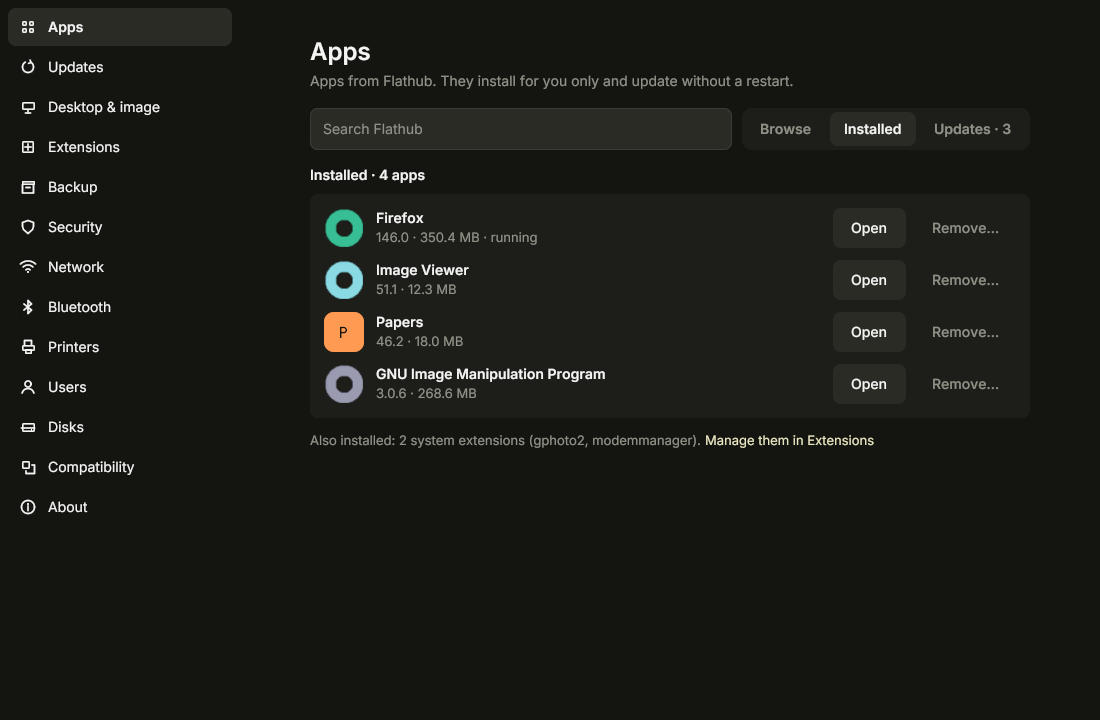
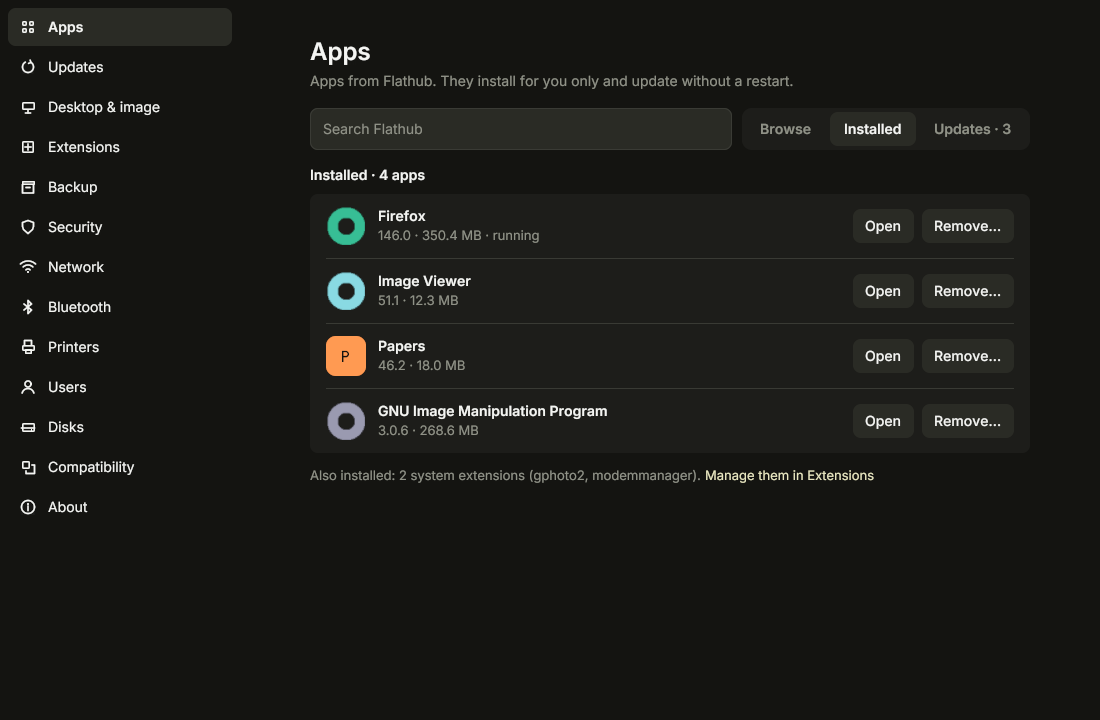
feat(system): settings rows on the Apps page
The picks, the search results, the installed apps, the updates and the
job in progress are grouped rows with row-sized buttons; "Update all"
moves beside its heading.

diff --git a/cmd/isotope-system/page_apps.go b/cmd/isotope-system/page_apps.go
@@ -869,26 +869,21 @@ func (p *appsPage) browseBody(sn appsSnap) layout.Widget {
 		c.add(u.caps(i18n.T("Isotope picks")))
 		c.gap(10)
 		lines := pickLines(sn.cat, sn.picks, sn.installedIDs)
-		c.add(u.panel(func(gtx layout.Context) layout.Dimensions {
-			var rows col
-			for i := 0; i < len(lines); i += 2 {
-				i := i
-				if i > 0 {
-					rows.gap(14)
+		var picks []layout.Widget
+		for i := 0; i < len(lines); i += 2 {
+			i := i
+			picks = append(picks, func(gtx layout.Context) layout.Dimensions {
+				right := func(gtx layout.Context) layout.Dimensions { return layout.Dimensions{} }
+				if i+1 < len(lines) {
+					right = p.appRow(lines[i+1], sn.job != nil, sn.flathub, true)
 				}
-				rows.add(func(gtx layout.Context) layout.Dimensions {
-					right := func(gtx layout.Context) layout.Dimensions { return layout.Dimensions{} }
-					if i+1 < len(lines) {
-						right = p.appRow(lines[i+1], sn.job != nil, sn.flathub, true)
-					}
-					return guikit.TwoCols(gtx, p.appRow(lines[i], sn.job != nil, sn.flathub, true), right)
-				})
-			}
-			if len(lines) == 0 {
-				rows.add(u.dim(i18n.T("None of Isotope's picks is in the catalog.")))
-			}
-			return rows.layout(gtx)
-		}))
+				return guikit.TwoCols(gtx, p.appRow(lines[i], sn.job != nil, sn.flathub, true), right)
+			})
+		}
+		if len(lines) == 0 {
+			picks = append(picks, u.note(i18n.T("None of Isotope's picks is in the catalog.")))
+		}
+		c.add(u.group(picks...))
 		c.gap(10)
 		c.add(u.dim(i18n.T("The picks are Isotope Welcome's list. Search reaches all of Flathub.")))
 		if sn.refreshing {
@@ -943,16 +938,11 @@ func (p *appsPage) appList(sn appsSnap, apps []flatpak.App, busy bool) layout.Wi
 	if len(apps) > appsMaxRows {
 		apps = apps[:appsMaxRows]
 	}
-	return u.panel(func(gtx layout.Context) layout.Dimensions {
-		var rows col
-		for i, a := range apps {
-			if i > 0 {
-				rows.gap(12)
-			}
-			rows.add(p.appRow(lineOf(a, sn.installedIDs), busy, sn.flathub, false))
-		}
-		return rows.layout(gtx)
-	})
+	var rows []layout.Widget
+	for _, a := range apps {
+		rows = append(rows, p.appRow(lineOf(a, sn.installedIDs), busy, sn.flathub, false))
+	}
+	return u.group(rows...)
 }
 
 // appRow is an app: its icon, name (and Verified), line, and Install or
@@ -991,7 +981,7 @@ func (p *appsPage) appRow(l appLine, busy, flathub, compact bool) layout.Widget 
 				})
 			}),
 			layout.Rigid(layout.Spacer{Width: 12}.Layout),
-			layout.Rigid(u.buttons(btn)),
+			layout.Rigid(u.rowButtons(btn)),
 		)
 	}
 }
@@ -1098,7 +1088,7 @@ func (p *appsPage) searchBody(sn appsSnap, q string) layout.Widget {
 			c.add(u.caps(title))
 			c.gap(10)
 			if len(res) == 0 {
-				c.add(u.panel(u.dim(i18n.Tf("No app on Flathub matches “%s”.", q))))
+				c.add(u.group(u.note(i18n.Tf("No app on Flathub matches “%s”.", q))))
 			} else {
 				c.add(p.appList(sn, res, sn.job != nil))
 				if len(res) > appsMaxRows {
@@ -1111,23 +1101,18 @@ func (p *appsPage) searchBody(sn appsSnap, q string) layout.Widget {
 			c.gap(22)
 			c.add(u.caps(i18n.T("System extensions")))
 			c.gap(10)
-			c.add(u.panel(func(gtx layout.Context) layout.Dimensions {
-				var rows col
-				for i, e := range exts {
-					if i > 0 {
-						rows.gap(12)
-					}
-					e := e
-					rows.add(func(gtx layout.Context) layout.Dimensions {
-						return layout.Flex{Alignment: layout.Middle}.Layout(gtx,
-							layout.Rigid(func(gtx layout.Context) layout.Dimensions { return p.extTile(gtx) }),
-							layout.Rigid(layout.Spacer{Width: 12}.Layout),
-							layout.Flexed(1, u.row(e.Title, e.Sub, u.buttons(guikit.Action{Click: p.extClick(e.Name), Kind: guikit.ButtonSecondary, Label: i18n.T("Open in Extensions")}))),
-						)
-					})
-				}
-				return rows.layout(gtx)
-			}))
+			var rows []layout.Widget
+			for _, e := range exts {
+				e := e
+				rows = append(rows, func(gtx layout.Context) layout.Dimensions {
+					return layout.Flex{Alignment: layout.Middle}.Layout(gtx,
+						layout.Rigid(func(gtx layout.Context) layout.Dimensions { return p.extTile(gtx) }),
+						layout.Rigid(layout.Spacer{Width: 12}.Layout),
+						layout.Flexed(1, u.row(e.Title, e.Sub, u.rowButtons(guikit.Action{Click: p.extClick(e.Name), Kind: guikit.ButtonSecondary, Label: i18n.T("Open in Extensions")}))),
+					)
+				})
+			}
+			c.add(u.group(rows...))
 		}
 		return c.layout(gtx)
 	}
@@ -1167,7 +1152,8 @@ func (p *appsPage) jobPanel(j *appsJob) layout.Widget {
 		var c col
 		c.add(u.caps(i18n.T("In progress")))
 		c.gap(10)
-		c.add(u.panel(func(gtx layout.Context) layout.Dimensions {
+		c.add(u.group(func(gtx layout.Context) layout.Dimensions {
+			gtx.Constraints.Min.X = gtx.Constraints.Max.X
 			return layout.Flex{Alignment: layout.Middle}.Layout(gtx,
 				layout.Rigid(func(gtx layout.Context) layout.Dimensions { return p.icon(gtx, j.ID, j.Name, j.Icon, 40) }),
 				layout.Rigid(layout.Spacer{Width: 12}.Layout),
@@ -1185,7 +1171,7 @@ func (p *appsPage) jobPanel(j *appsJob) layout.Widget {
 					return rows.layout(gtx)
 				}),
 				layout.Rigid(layout.Spacer{Width: 16}.Layout),
-				layout.Rigid(u.buttons(guikit.Action{Click: &p.cancel, Kind: guikit.ButtonSecondary, Label: i18n.T("Cancel")})),
+				layout.Rigid(u.rowButtons(guikit.Action{Click: &p.cancel, Kind: guikit.ButtonSecondary, Label: i18n.T("Cancel")})),
 			)
 		}))
 		return c.layout(gtx)
@@ -1211,18 +1197,13 @@ func (p *appsPage) installedBody(sn appsSnap) layout.Widget {
 			c.add(u.caps(i18n.Tf("Installed · %s", countApps(len(rows)))))
 			c.gap(10)
 			if len(rows) == 0 {
-				c.add(u.panel(u.dim(i18n.T("No app yet. Browse or search Flathub to install one."))))
+				c.add(u.group(u.note(i18n.T("No app yet. Browse or search Flathub to install one."))))
 			} else {
-				c.add(u.panel(func(gtx layout.Context) layout.Dimensions {
-					var list col
-					for i, r := range rows {
-						if i > 0 {
-							list.gap(12)
-						}
-						list.add(p.installedRow(r, sn.job != nil))
-					}
-					return list.layout(gtx)
-				}))
+				var list []layout.Widget
+				for _, r := range rows {
+					list = append(list, p.installedRow(r, sn.job != nil))
+				}
+				c.add(u.group(list...))
 			}
 		}
 		if l := installedExtsLine(sn.exts); l != "" {
@@ -1268,9 +1249,9 @@ func (p *appsPage) installedRow(r installedRow, busy bool) layout.Widget {
 				})
 			}),
 			layout.Rigid(layout.Spacer{Width: 12}.Layout),
-			layout.Rigid(u.buttons(
+			layout.Rigid(u.rowButtons(
 				guikit.Action{Click: &k.open, Kind: guikit.ButtonSecondary, Label: i18n.T("Open")},
-				guikit.Action{Click: &k.remove, Kind: guikit.ButtonGhost, Label: i18n.T("Remove…"), Disabled: busy},
+				guikit.Action{Click: &k.remove, Kind: guikit.ButtonSecondary, Label: i18n.T("Remove…"), Disabled: busy},
 			)),
 		)
 	}
@@ -1285,8 +1266,8 @@ func (p *appsPage) updatesBody(sn appsSnap) layout.Widget {
 	busy := sn.job != nil
 	return func(gtx layout.Context) layout.Dimensions {
 		var c col
-		c.add(u.panel(u.row(i18n.T("Update apps automatically"), av.Sub,
-			u.buttons(guikit.Action{Click: &p.autoToggle, Kind: guikit.ButtonSecondary, Label: av.Toggle}))))
+		c.add(u.group(u.actionRow("apps:auto", i18n.T("Update apps automatically"), av.Sub, nil,
+			guikit.Action{Click: &p.autoToggle, Kind: guikit.ButtonSecondary, Label: av.Toggle})))
 		c.gap(18)
 		if sn.job != nil {
 			c.add(p.jobPanel(sn.job))
@@ -1301,15 +1282,10 @@ func (p *appsPage) updatesBody(sn appsSnap) layout.Widget {
 			return c.layout(gtx)
 		}
 		if len(uv.Ready) == 0 && len(uv.Held) == 0 {
-			c.add(u.panel(u.dim(i18n.T("Your apps are up to date."))))
+			c.add(u.group(u.note(i18n.T("Your apps are up to date."))))
 		}
 		if len(uv.Ready) > 0 {
-			c.add(func(gtx layout.Context) layout.Dimensions {
-				return layout.Flex{Alignment: layout.Middle}.Layout(gtx,
-					layout.Flexed(1, u.caps(uv.ReadyTitle)),
-					layout.Rigid(u.buttons(guikit.Action{Click: &p.updateAll, Kind: guikit.ButtonPrimary, Label: i18n.T("Update all"), Disabled: busy})),
-				)
-			})
+			c.add(u.section(uv.ReadyTitle, guikit.Action{Click: &p.updateAll, Kind: guikit.ButtonPrimary, Label: i18n.T("Update all"), Disabled: busy}))
 			c.gap(10)
 			c.add(p.updateList(uv.Ready, busy))
 		}
@@ -1332,46 +1308,41 @@ func (p *appsPage) updatesBody(sn appsSnap) layout.Widget {
 
 func (p *appsPage) updateList(rows []updateRow, busy bool) layout.Widget {
 	u := p.u
-	return u.panel(func(gtx layout.Context) layout.Dimensions {
-		var list col
-		for i, r := range rows {
-			if i > 0 {
-				list.gap(12)
-			}
-			r := r
-			k := p.clicks("u:" + r.Ref)
-			btn := guikit.Action{Click: &k.update, Kind: guikit.ButtonSecondary, Label: i18n.T("Update"), Disabled: busy}
-			if r.NeedsOK {
-				btn = guikit.Action{Click: &k.review, Kind: guikit.ButtonSecondary, Label: i18n.T("Review…"), Disabled: busy}
-			}
-			list.add(func(gtx layout.Context) layout.Dimensions {
-				gtx.Constraints.Min.X = gtx.Constraints.Max.X
-				return layout.Flex{Alignment: layout.Middle}.Layout(gtx,
-					layout.Rigid(func(gtx layout.Context) layout.Dimensions { return p.icon(gtx, r.ID, r.Name, r.Icon, 36) }),
-					layout.Rigid(layout.Spacer{Width: 12}.Layout),
-					layout.Flexed(1, func(gtx layout.Context) layout.Dimensions {
-						var c col
-						c.add(func(gtx layout.Context) layout.Dimensions { return p.nameLine(gtx, r.Name, false, r.Change) })
-						if r.Notes != "" {
-							c.gap(2)
-							notes := r.Notes
-							c.add(func(gtx layout.Context) layout.Dimensions {
-								if r.NeedsOK {
-									lead := i18n.T("Asks for more:")
-									return p.warnLead(gtx, lead, strings.TrimPrefix(notes, lead))
-								}
-								return u.LabelMax(gtx, guikit.StSmall, u.Colors().Dim, 2, notes)
-							})
-						}
-						return c.layout(gtx)
-					}),
-					layout.Rigid(layout.Spacer{Width: 12}.Layout),
-					layout.Rigid(u.buttons(btn)),
-				)
-			})
+	var list []layout.Widget
+	for _, r := range rows {
+		r := r
+		k := p.clicks("u:" + r.Ref)
+		btn := guikit.Action{Click: &k.update, Kind: guikit.ButtonSecondary, Label: i18n.T("Update"), Disabled: busy}
+		if r.NeedsOK {
+			btn = guikit.Action{Click: &k.review, Kind: guikit.ButtonSecondary, Label: i18n.T("Review…"), Disabled: busy}
 		}
-		return list.layout(gtx)
-	})
+		list = append(list, func(gtx layout.Context) layout.Dimensions {
+			gtx.Constraints.Min.X = gtx.Constraints.Max.X
+			return layout.Flex{Alignment: layout.Middle}.Layout(gtx,
+				layout.Rigid(func(gtx layout.Context) layout.Dimensions { return p.icon(gtx, r.ID, r.Name, r.Icon, 36) }),
+				layout.Rigid(layout.Spacer{Width: 12}.Layout),
+				layout.Flexed(1, func(gtx layout.Context) layout.Dimensions {
+					var c col
+					c.add(func(gtx layout.Context) layout.Dimensions { return p.nameLine(gtx, r.Name, false, r.Change) })
+					if r.Notes != "" {
+						c.gap(2)
+						notes := r.Notes
+						c.add(func(gtx layout.Context) layout.Dimensions {
+							if r.NeedsOK {
+								lead := i18n.T("Asks for more:")
+								return p.warnLead(gtx, lead, strings.TrimPrefix(notes, lead))
+							}
+							return u.LabelMax(gtx, guikit.StSmall, u.Colors().Dim, 2, notes)
+						})
+					}
+					return c.layout(gtx)
+				}),
+				layout.Rigid(layout.Spacer{Width: 12}.Layout),
+				layout.Rigid(u.rowButtons(btn)),
+			)
+		})
+	}
+	return u.group(list...)
 }
 
 // warnLead is a small line whose first words are amber.
